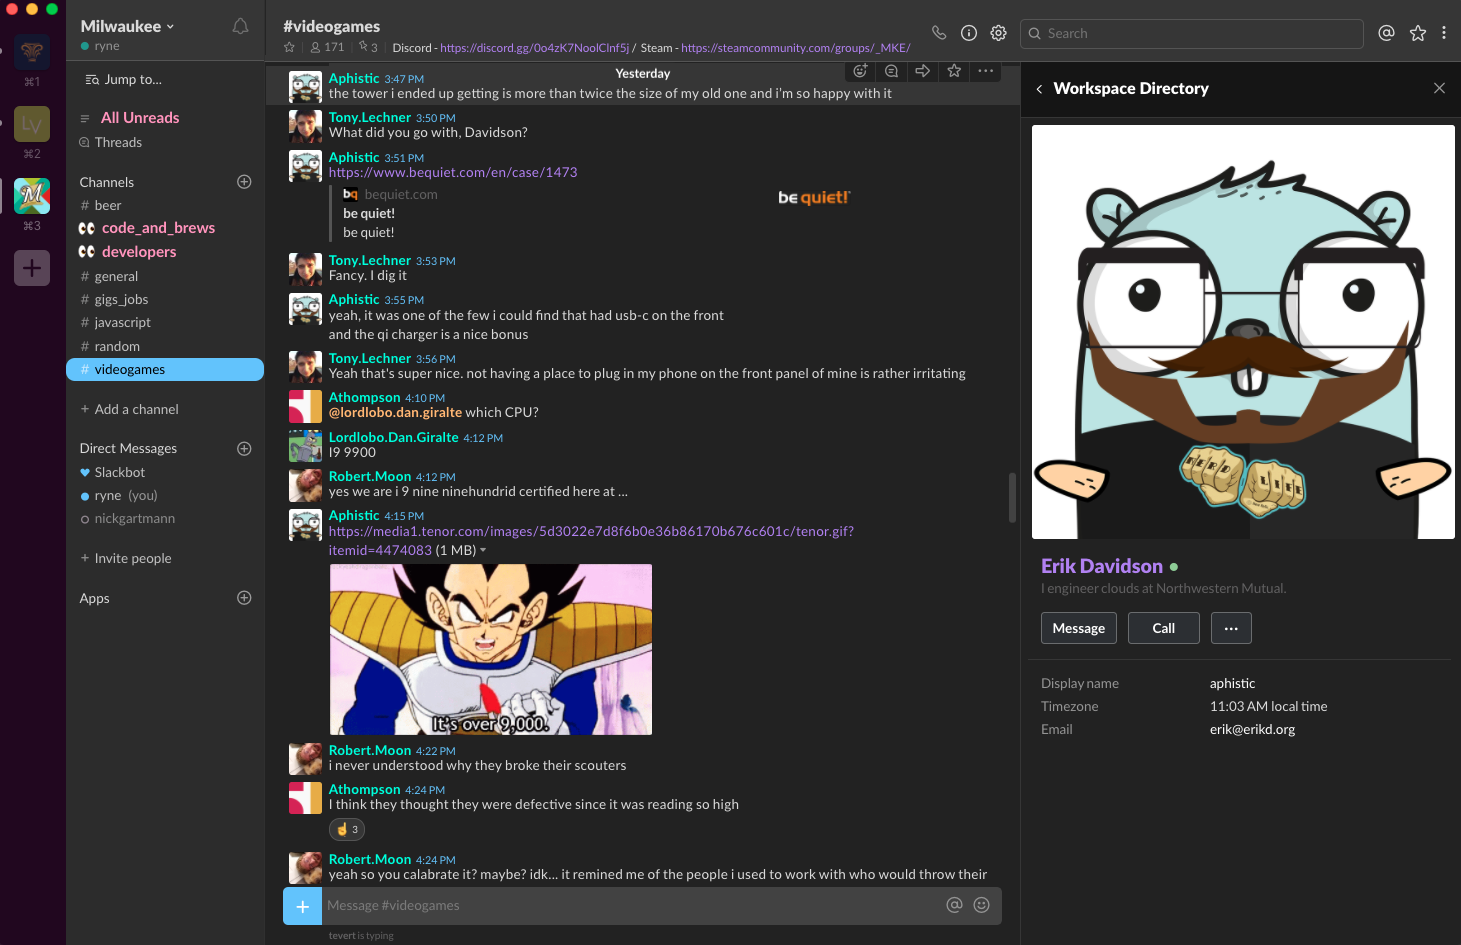
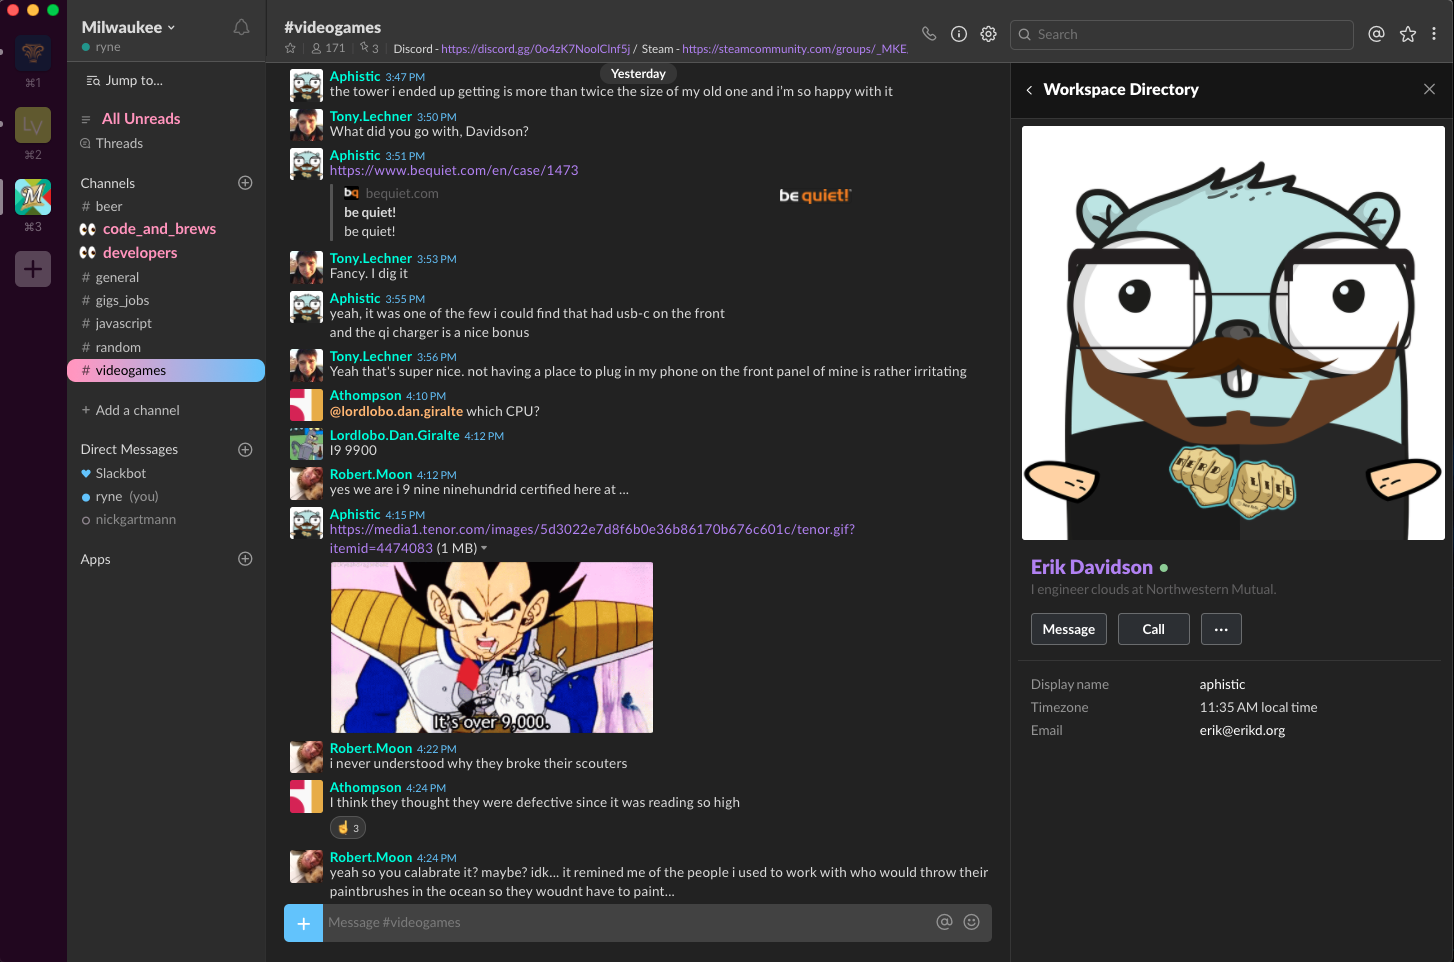
gradient

diff --git a/dark.css b/dark.css
@@ -18,14 +18,11 @@
 .channel_header {
     background-color: var(--bg-med) !important;
 }
-/*
+
 .p-channel_sidebar__channel:hover, .p-channel_sidebar__link:hover, .p-channel_sidebar__close_container:hover {
-    color: var(--panda-orange) !important;
-    border-width: 1px 1px 1px 0;
     border: black;
     border-radius: 10px;
-    background: inherit !important;
-} */
+}
 
 
 /*  Minified base dark theme */
@@ -1245,12 +1242,22 @@ a.c-message__sender_link {
 	color: var(--panda-pink) !important;
 }
 
+/* selected channel */
+.p-channel_sidebar__channel--selected, .p-channel_sidebar__link--selected, .p-channel_sidebar__channel--selected:link, .p-channel_sidebar__link--selected:link, .p-channel_sidebar__channel--selected:visited, .p-channel_sidebar__link--selected:visited, .p-channel_sidebar__channel--selected:hover, .p-channel_sidebar__link--selected:hover, .p-channel_sidebar__channel--selected + .p-channel_sidebar__close {
+    background: -webkit-gradient(linear,left top,right top,from(var(--panda-pink)),to(var(--panda-blue))) !important;
+}
+
+/* selected channel hover */
 .p-channel_sidebar__channel--selected, .p-channel_sidebar__channel--selected:hover, .p-channel_sidebar__link--selected, .p-channel_sidebar__link--selected:hover {
 	color: black !important;
     border-width: 1px 1px 1px 0;
     border: black;
     border-radius: 10px;
-    background: var(--panda-blue) !important;
+    background: -webkit-gradient(linear,left top,right top,from(var(--panda-pink)),to(var(--panda-blue))) !important;
+}
+
+.p-channel_sidebar__channel--selected:before, .p-channel_sidebar__channel--selected:hover:before, .p-channel_sidebar__link--selected:before, .p-channel_sidebar__link--selected:before, .p-channel_sidebar__channel--selected:after, .p-channel_sidebar__channel--selected:hover:after, .p-channel_sidebar__link--selected:after, .p-channel_sidebar__link--selected:after {
+	color: black !important;
 }
 
 .p-channel_sidebar__channel--im .c-presence--active, .p-channel_sidebar__channel--im-slackbot:before {
@@ -1274,3 +1281,4 @@ span.c-message__body, a.c-message__sender_link, span.c-message_attachment__media
 *********************************************************
 *********************************************************
 *********************************************************/
+
